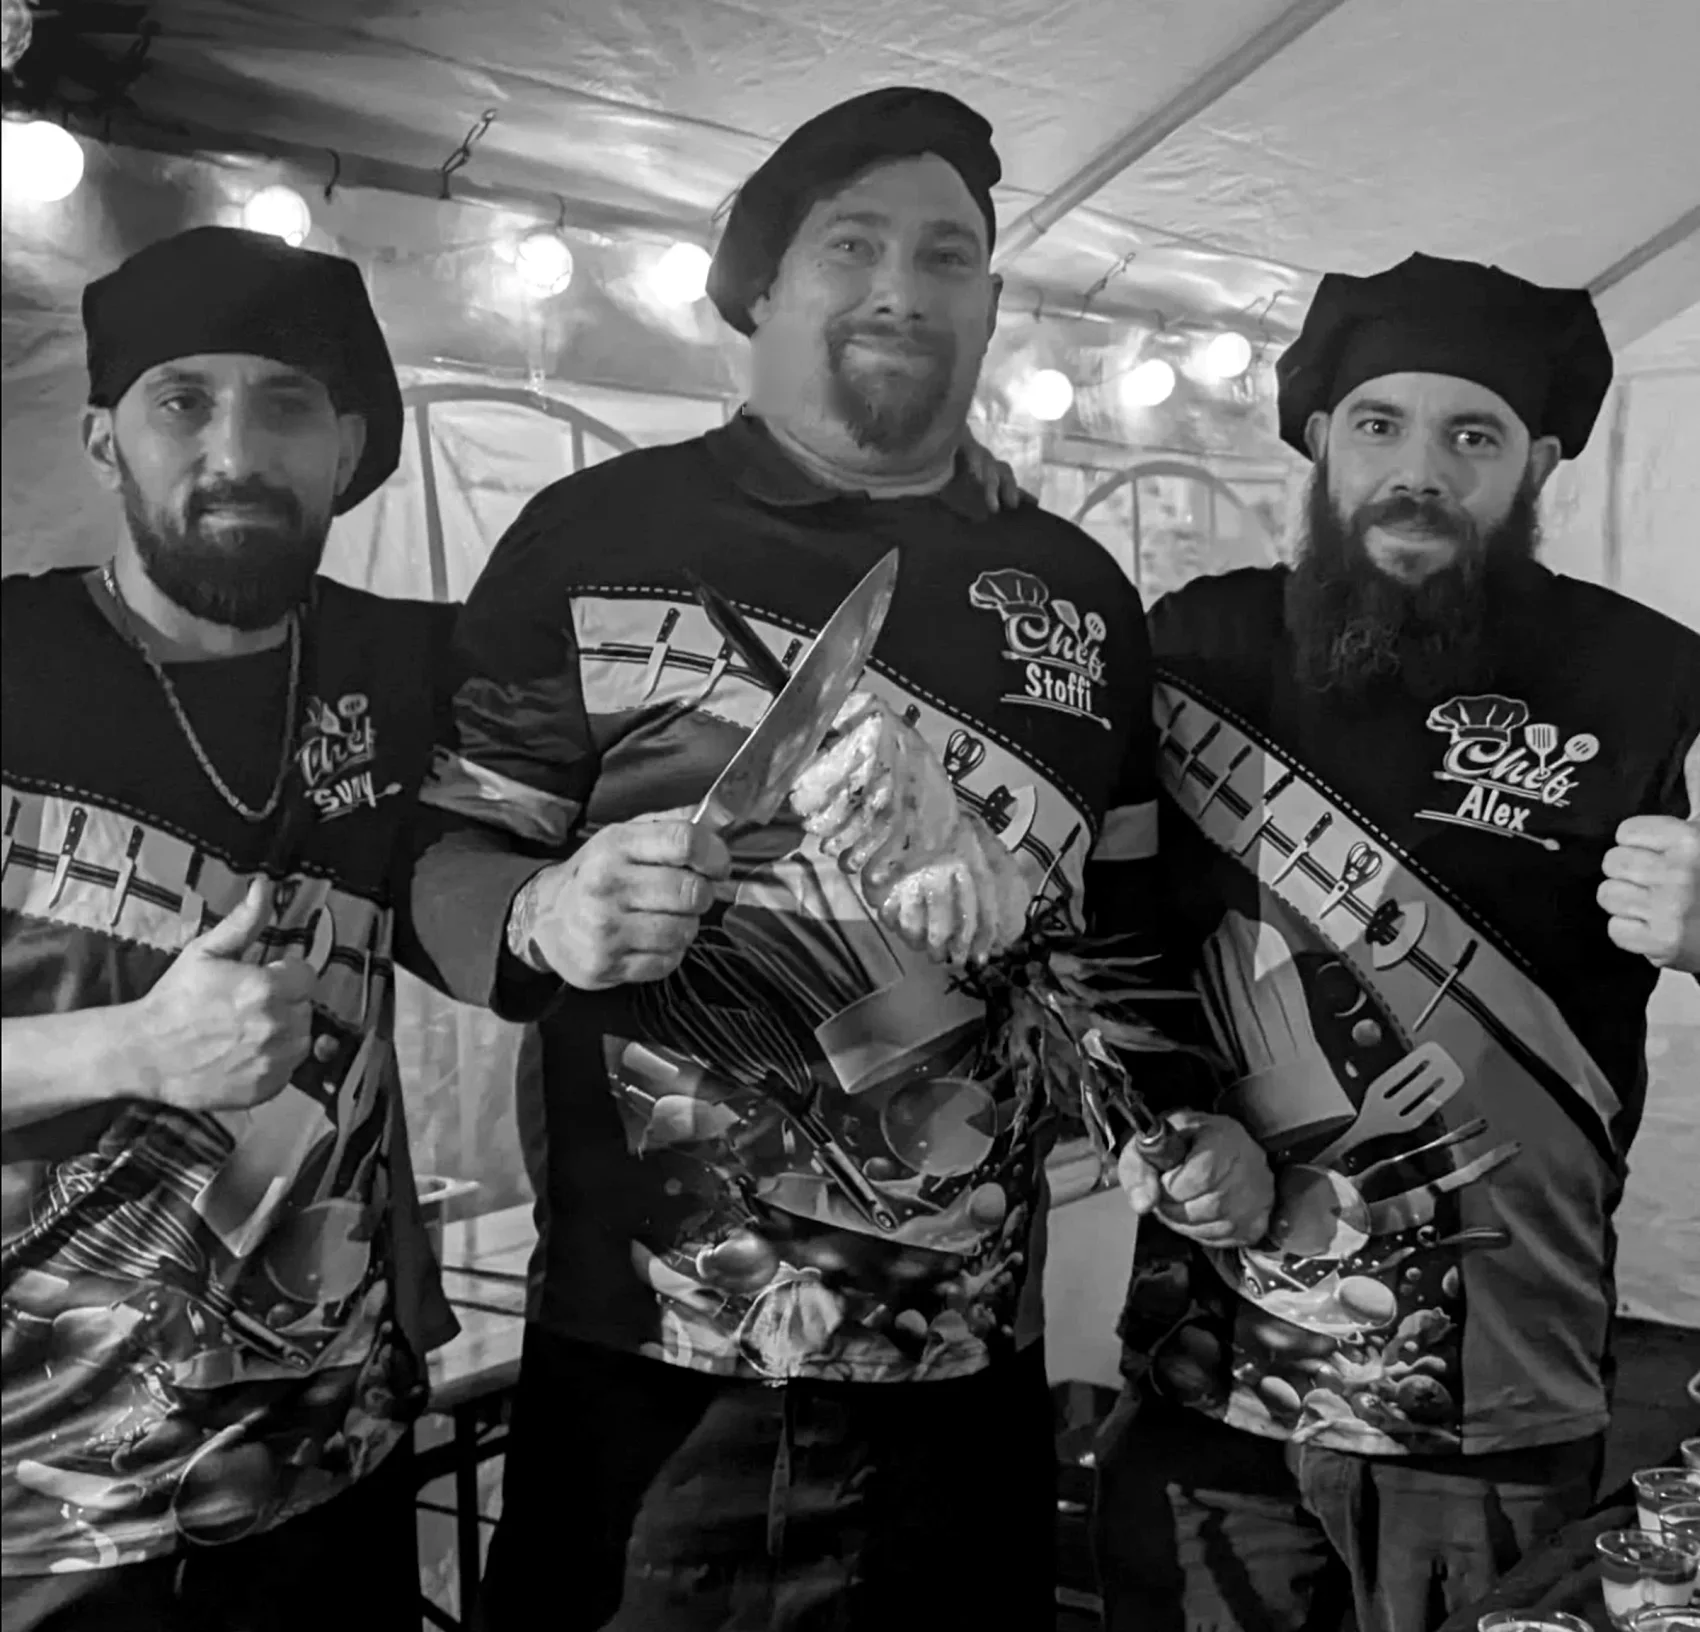
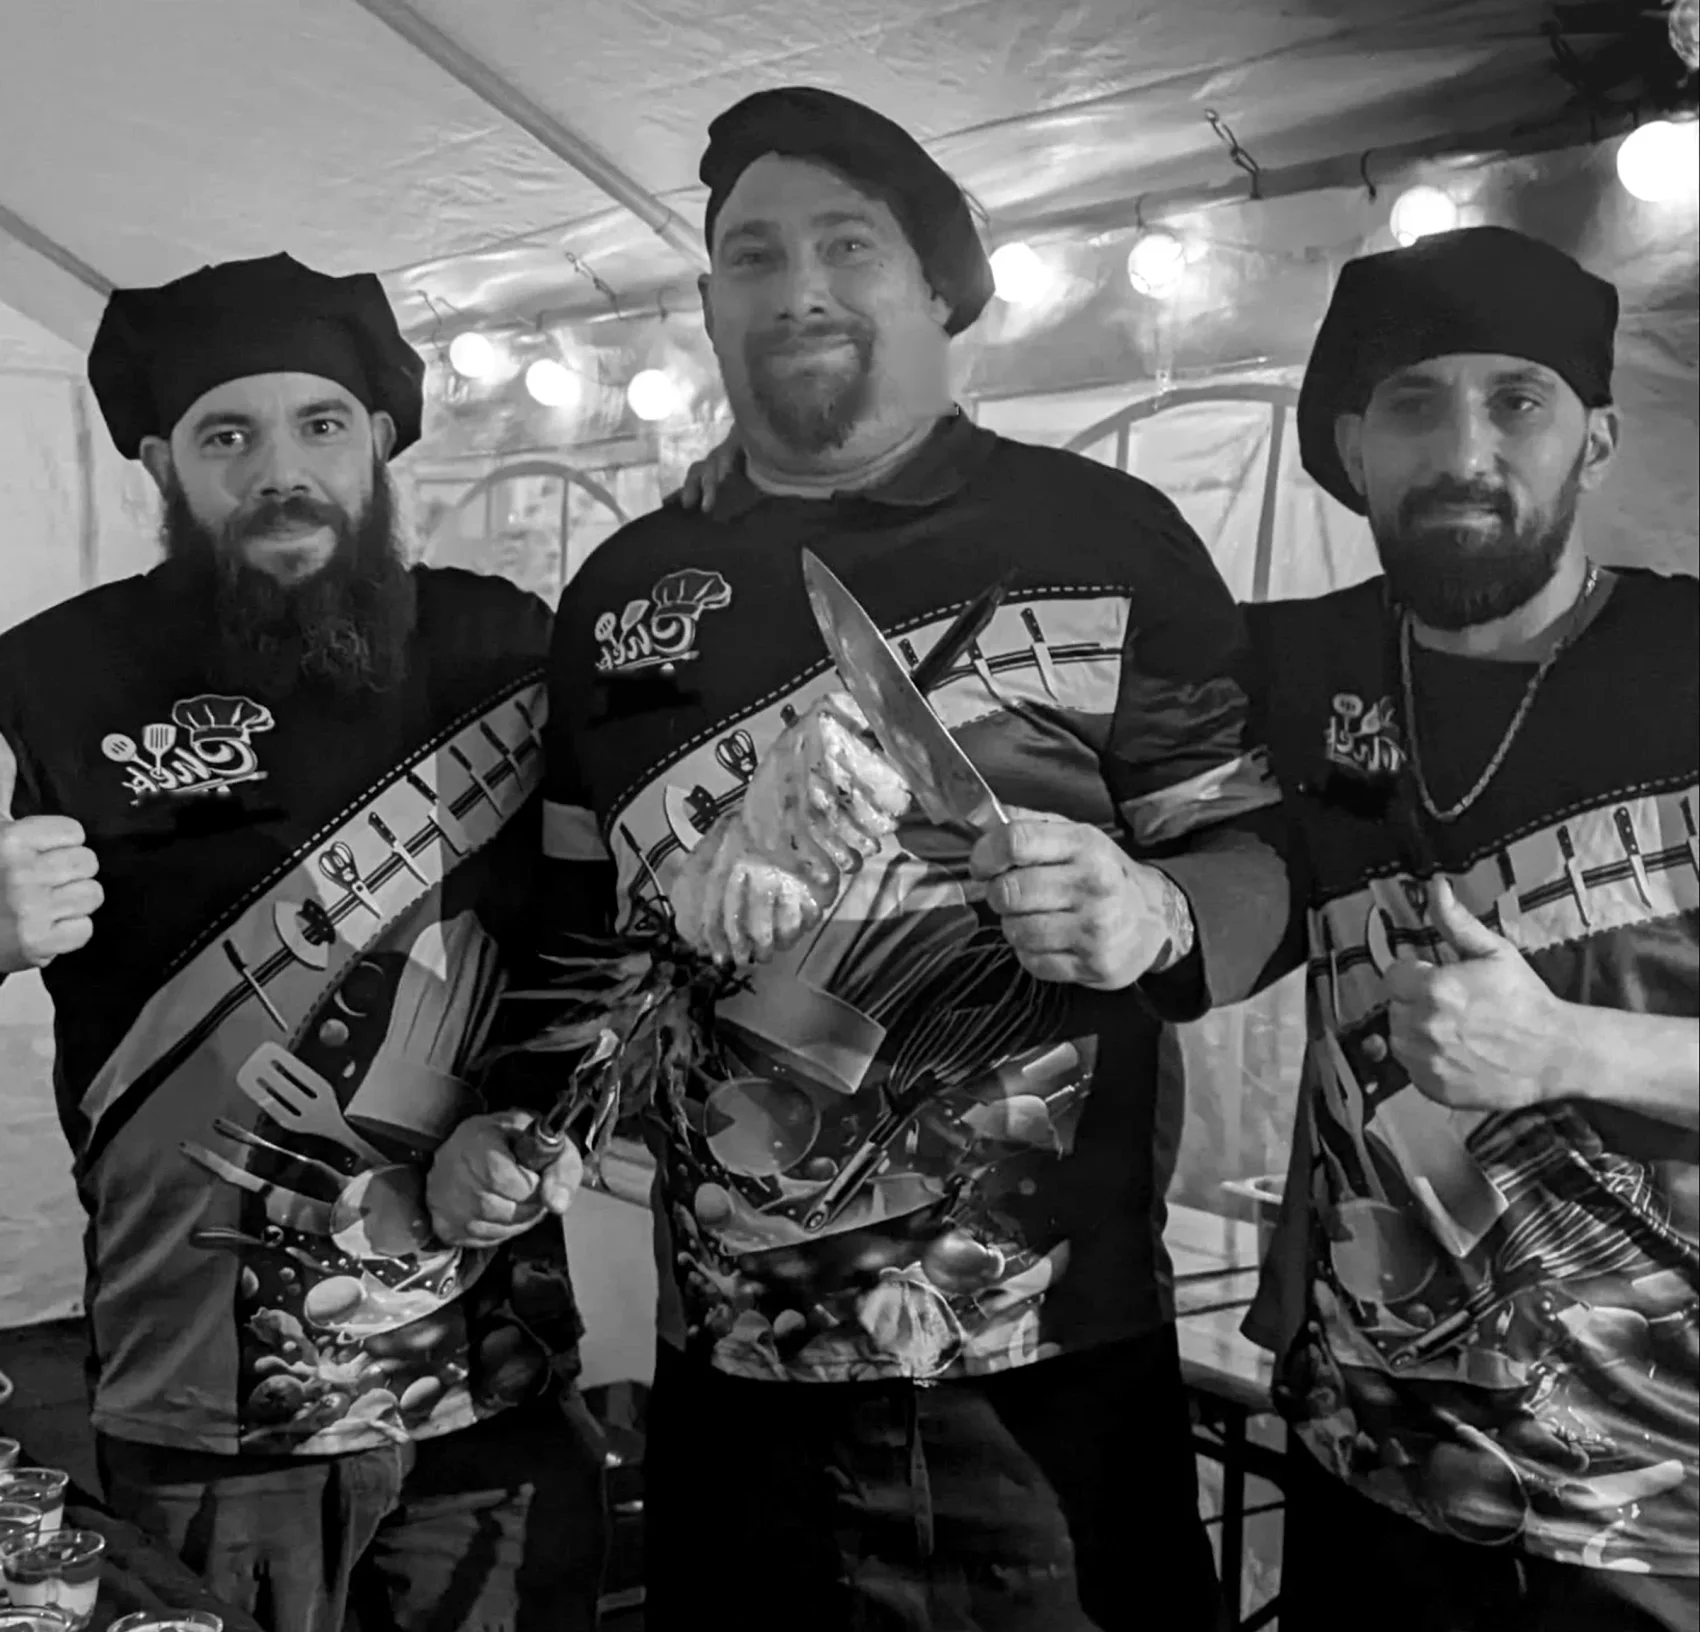
Update

diff --git a/index.html b/index.html
@@ -805,8 +805,8 @@ img{image-rendering:auto}
 <section class="sec team-sec" id="team">
   <div class="wrap team-grid">
     <figure class="team-photo rv">
-      <img data-par="-0.05" loading="lazy" class="tc" src="assets/team_color.webp" alt="Alex, Chris und Sunny von 3Beasts BBQ in Kochkleidung mit Ananas-Spieß">
-      <img data-par="-0.05" loading="lazy" class="tb" src="assets/team_bw.webp" alt="">
+      <img data-par="-0.05" loading="lazy" class="tc" src="assets/team_color.webp?v=2" alt="Alex, Chris und Sunny von 3Beasts BBQ in Kochkleidung mit Ananas-Spieß">
+      <img data-par="-0.05" loading="lazy" class="tb" src="assets/team_bw.webp?v=2" alt="">
     </figure>
     <div class="team-txt">
       <div class="idx lab">Das Team</div>
